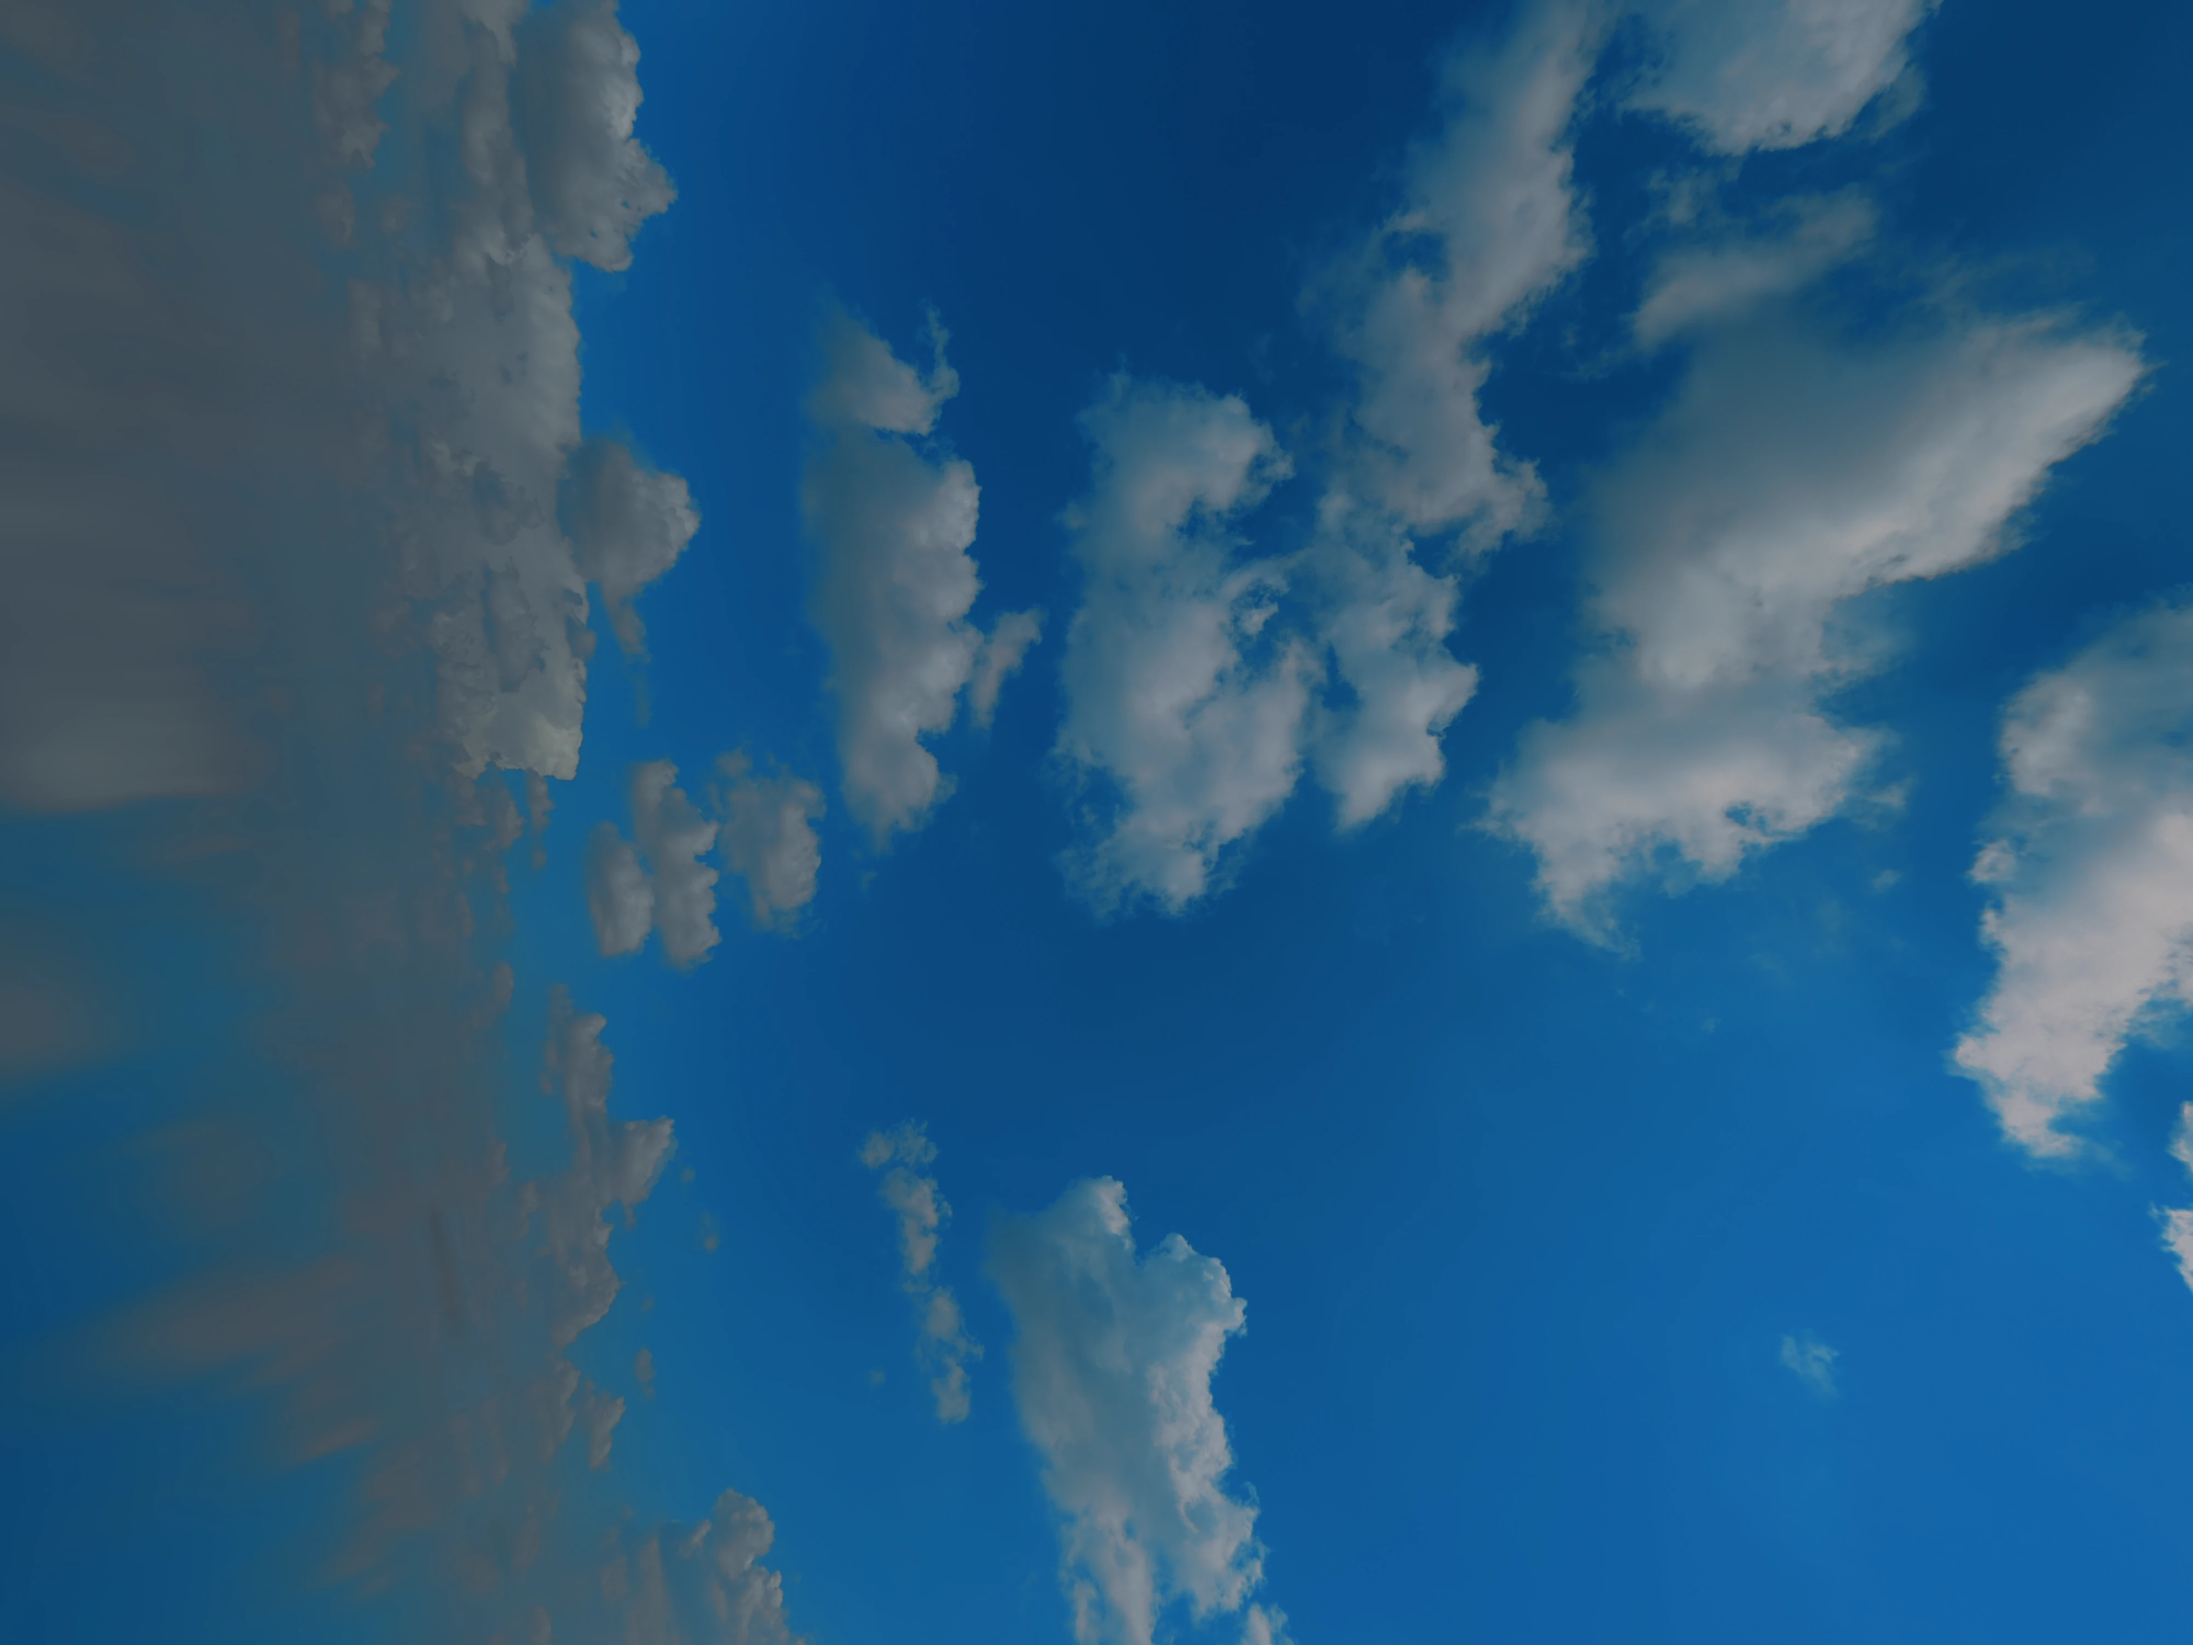
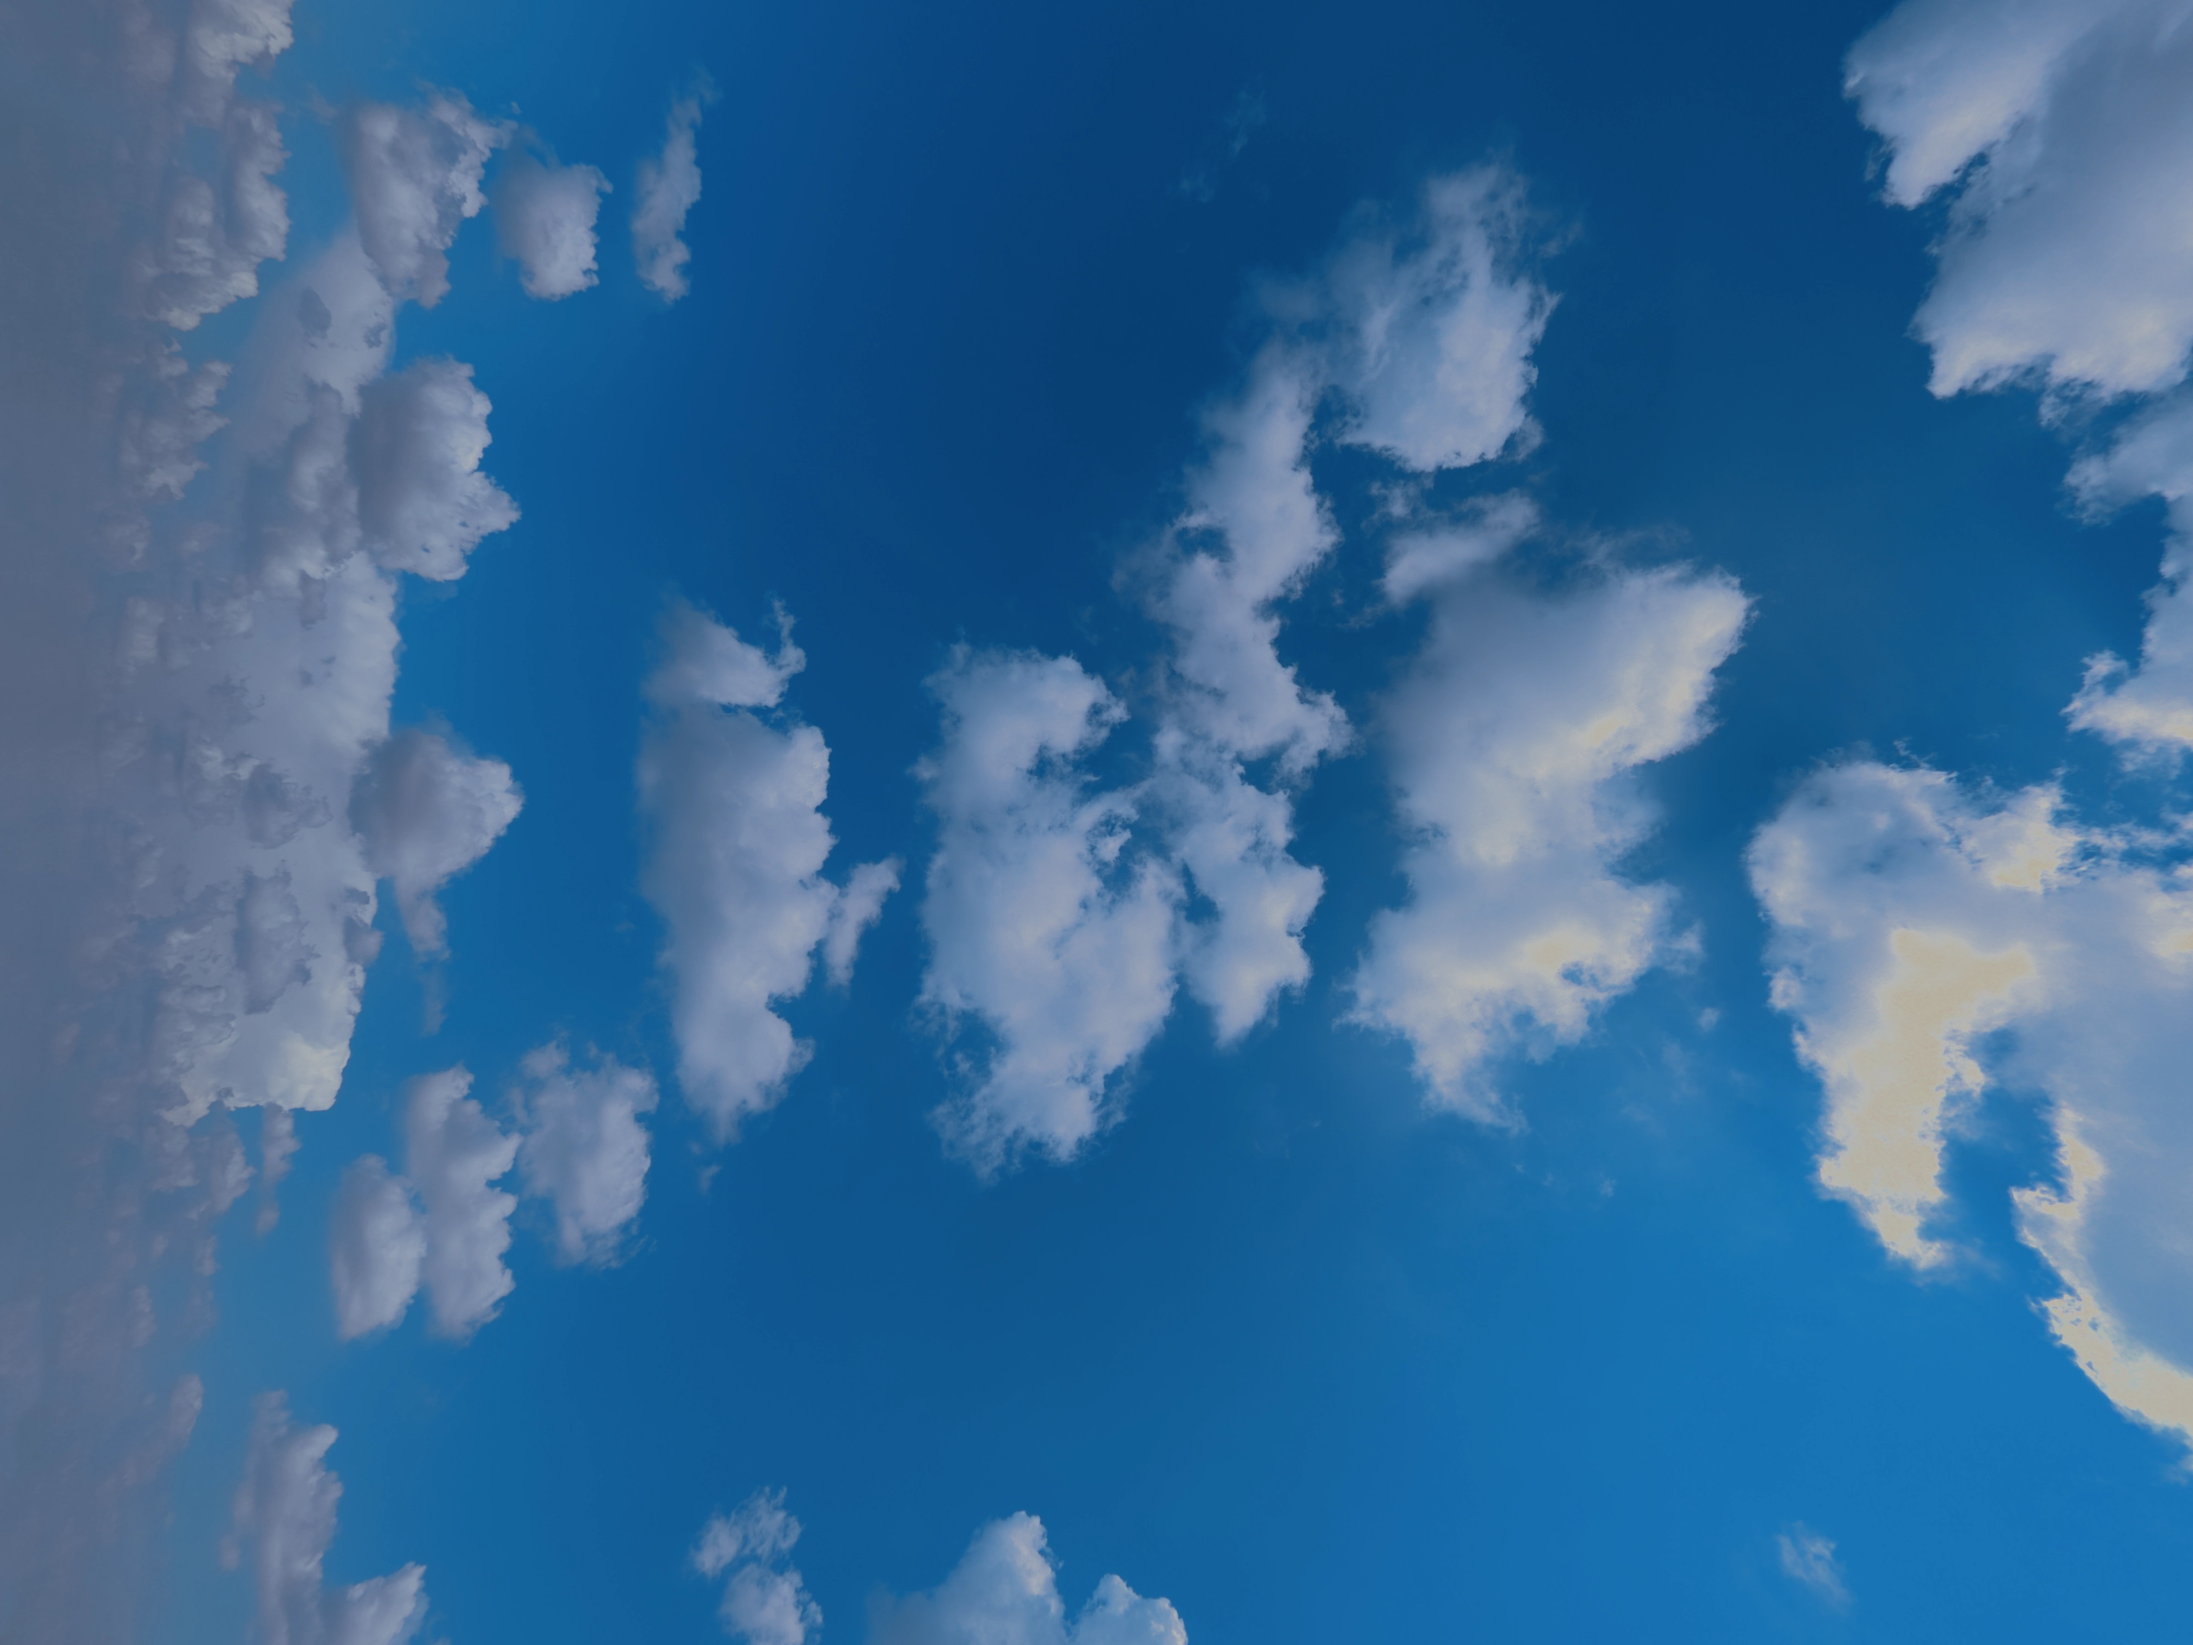
Lab: climb depth-clock round 2
Claude-Session: https://claude.ai/code/session_01RqENhngNCzDFmJWDZueXGV

diff --git a/src/app/lab/depth-clock/bake_clouds.py b/src/app/lab/depth-clock/bake_clouds.py
@@ -1,5 +1,5 @@
 # Bake the depth-clock sky plane from a Poly Haven pure-sky HDRI.
-#   python3 -I bake_clouds.py kloofendal_48d_partly_cloudy_puresky_16k.hdr public/lab/depth-clock -30
+#   python3 -I bake_clouds.py kloofendal_48d_partly_cloudy_puresky_16k.hdr public/lab/depth-clock -10
 #
 # The trees are Troy Olson's conifers (plate.py, bake.py), whose own sky is a
 # clean clear cobalt. This puts fair-weather cumulus behind them instead:
@@ -14,14 +14,18 @@
 #      way are lit, the far side is in silhouette, and the sky pales toward
 #      it), so the cloud's lit flanks face the lit bark; SPIN turns the clouds
 #      about that sun axis, which picks the composition without moving the
-#      light;
+#      light: at -10 the dome's big sunlit cumulus fills the well under the
+#      figures, from the lower right (toward the sun) up behind the 4 and 1;
 #   3. the clear blue is matched to the conifers' seen sky (per channel), while
-#      cloud is matched in light only, never tinted blue, and its sunlit side
-#      takes the same warm sun the numerals use;
-#   4. the cloud is held a little under its real light and a soft shoulder
-#      rounds its brightest tops, so on film nothing clips and the pale
-#      numerals stay the brightest thing in the air.
-# Writes clouds.webp: scene-linear light / ENC, sRGB-encoded, like the others.
+#      cloud is matched in light only and lit as cloud is: its tops by the
+#      low, warm sun, its bellies by the cobalt around it (mixed in as light,
+#      so they go skylight blue, never cyan), with its own range widened a
+#      little (FORM) so the tops and the shaded bellies separate;
+#   4. the cloud is held just under its real light and a soft shoulder rounds
+#      only its brightest tops, so on film nothing clips (0% at 255 measured)
+#      while the cloud keeps its form.
+# Writes clouds.webp at quality 97 (at 90 the cloud's micro-texture went):
+# scene-linear light / ENC, sRGB-encoded, like the others.
 import sys, os
 import numpy as np, cv2
 from PIL import Image
@@ -96,39 +100,57 @@ print('cloud cover %.2f' % (w > 0.5).mean())
 LUMA = np.array([0.2126, 0.7152, 0.0722], np.float32)
 gc = np.median(ref[refCore], 0) / np.median(sky[clear], 0)  # clear blue, per channel
 # Cloud is matched in light only, and held CLOUD of the way down: sunlit
-# cumulus is 3-4x the blue around it, which on film leaves nothing above it
-# for the numerals. Held down, the cloud keeps its skylit undersides and the
-# pale figures stay the brightest thing in the air.
-CLOUD = float(os.environ.get('CLOUD', 0.65))
+# cumulus is 3-4x the blue around it, which on film would burn its tops flat.
+# Just under its real light, its sunlit tops are the light of the frame and
+# its skylit undersides keep their shade.
+CLOUD = float(os.environ.get('CLOUD', 0.9))
 gl = CLOUD * float(np.median(ref[refCore] @ LUMA) / np.median(sky[clear] @ LUMA))
-print('clear gain', gc.round(3), 'light gain %.3f' % gl)
-# Which side of the cloud faces the sun: brighter than the cloud's median.
+# How far round toward the sun each bit of cloud faces, from its light: 0 its
+# dimmest skylit belly, 1 its brightest sunlit top, with the mass of the
+# cloud spread between them (not just the part above its median, which left
+# most of it in full shade and the whole cloud one cool tone).
 Ls = sky @ LUMA
 cl = Ls[w > 0.6]
-lit = np.clip((Ls - np.median(cl)) / max(np.percentile(cl, 99) - np.median(cl), 1e-4), 0, 1)
-# Clear blue takes the conifers' sky colour; cloud keeps its own, except that its
-# shadowed side is lit by that same blue sky, so it takes part of its colour
-# (otherwise it reads mauve against the cyan-leaning blue). The conifers'
-# cobalt is so deep (its red is a tenth of the cloud sky's) that a large share
-# turns the cloud cyan: a little is enough to set its shade in the same air.
-SHADE = float(os.environ.get('SHADE', 0.15))
-k = 1 - w * (1 - SHADE * (1 - lit))  # share of the per-channel (sky colour) gain
-lgc = np.log(gc / (gc @ LUMA))  # the colour part of gc, light removed
-gain = gl ** w[..., None] * (gc @ LUMA) ** (1 - w[..., None]) * np.exp(lgc[None, None, :] * k[..., None])
-sky = sky * gain
-# ... and its sunlit side takes the plate's warm sun.
-sun = np.array([1.0, 0.975, 0.94], np.float32)
-sky = sky * (1 + (lit * w)[..., None] * (sun - 1))
+lo, hi = np.percentile(cl, 5), np.percentile(cl, 99)
+lit = np.clip((Ls - lo) / max(hi - lo, 1e-4), 0, 1)
+lit = lit * lit * (3 - 2 * lit)
+# Clear blue takes the conifers' sky colour, per channel. Cloud is matched in
+# light only and lit as cloud is: its tops by the low sun, warm, and its
+# shaded side by the sky around it, so that side takes SHADE of the conifers'
+# cobalt as light added to white (a mix, not a filter: a filter by a blue this
+# deep, whose red is a twentieth of its blue, turns cloud cyan). The capture's
+# own cool cast is taken off first (its own sky's blue is in it even where the
+# sun strikes); its local variation is kept.
+SHADE = float(os.environ.get('SHADE', 0.3))
+SUN = np.array([1.0, 0.965, 0.9], np.float32)  # elevation 20: warmer than noon
+blue = np.median(ref[refCore], 0)
+blue = blue / (blue @ LUMA)
+own = np.median(sky[w > 0.6], 0)
+own = own / (own @ LUMA)
+print('clear gain', gc.round(3), 'light gain %.3f' % gl, 'cloud cast', own.round(3))
+s = (SHADE * (1 - lit))[..., None]
+tint = ((1 - s) + s * blue) * (1 + lit[..., None] * (SUN - 1))
+tint = tint / (tint @ LUMA)[..., None]
+cloud = sky * (gl / own) * tint
+sky = sky * gc * (1 - w[..., None]) + cloud * w[..., None]
+# Form: the capture's cloud spans about two stops from its skylit undersides
+# to its sunlit tops; held CLOUD down and rounded by the shoulder, that reads
+# as one flat pillow. FORM widens the cloud's own range about its median, in
+# the cloud only, so the tops and the shaded bellies separate.
+FORM = float(os.environ.get('FORM', 1.4))
+Ls = sky @ LUMA
+med = float(np.median(Ls[w > 0.6]))
+sky = sky * ((np.maximum(Ls, 1e-6) / med) ** ((FORM - 1) * w))[..., None]
 # A touch of local contrast in the cloud only, as a lens with some bite
 # draws it (the 16k already carries the detail; SHARP 0 leaves it as shot).
-SHARP = float(os.environ.get('SHARP', 0.25))
+SHARP = float(os.environ.get('SHARP', 0.4))
 blur = cv2.GaussianBlur(sky, (0, 0), 2.5)
 sky = np.maximum(sky + SHARP * (sky - blur) * w[..., None], 0)
 
 # Soft shoulder on the largest channel: everything under KNEE untouched, the
 # brightest cloud approaches LIMIT and never reaches the file's ceiling (ENC),
 # so no channel clips and the hue of a bright edge holds.
-KNEE, LIMIT = float(os.environ.get('KNEE', 0.3)), float(os.environ.get('LIMIT', 0.8))
+KNEE, LIMIT = float(os.environ.get('KNEE', 0.5)), float(os.environ.get('LIMIT', 0.92))
 Ls = sky.max(2)
 Lc = np.where(Ls > KNEE, KNEE + (LIMIT - KNEE) * np.tanh((Ls - KNEE) / (LIMIT - KNEE)), Ls)
 sky = sky * (Lc / np.maximum(Ls, 1e-6))[..., None]
@@ -143,5 +165,5 @@ def enc(x):
 
 
 os.makedirs(out, exist_ok=True)
-Image.fromarray((enc(sky) * 255 + 0.5).astype(np.uint8), 'RGB').save(out + '/clouds.webp', 'WEBP', quality=90, method=6)
+Image.fromarray((enc(sky) * 255 + 0.5).astype(np.uint8), 'RGB').save(out + '/clouds.webp', 'WEBP', quality=97, method=6)
 print('clouds.webp', os.path.getsize(out + '/clouds.webp') // 1024, 'KB')
